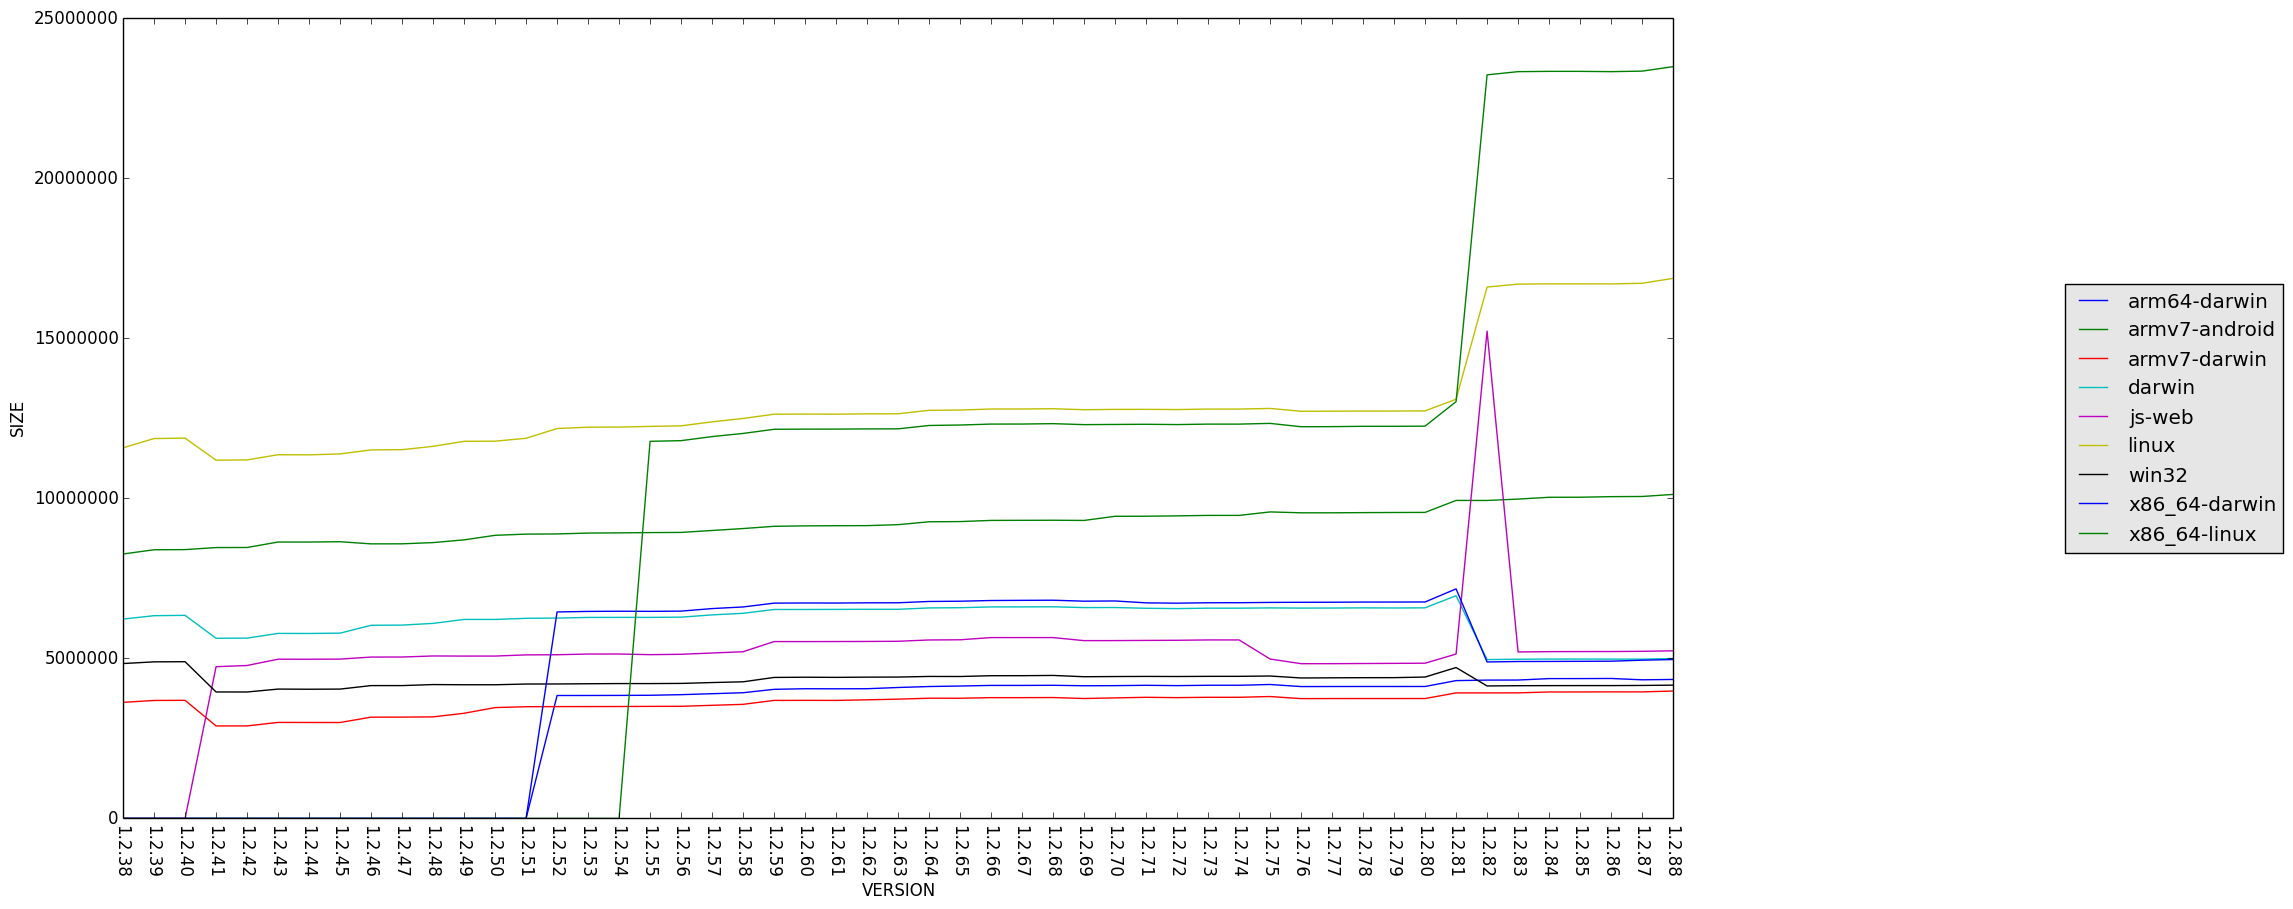
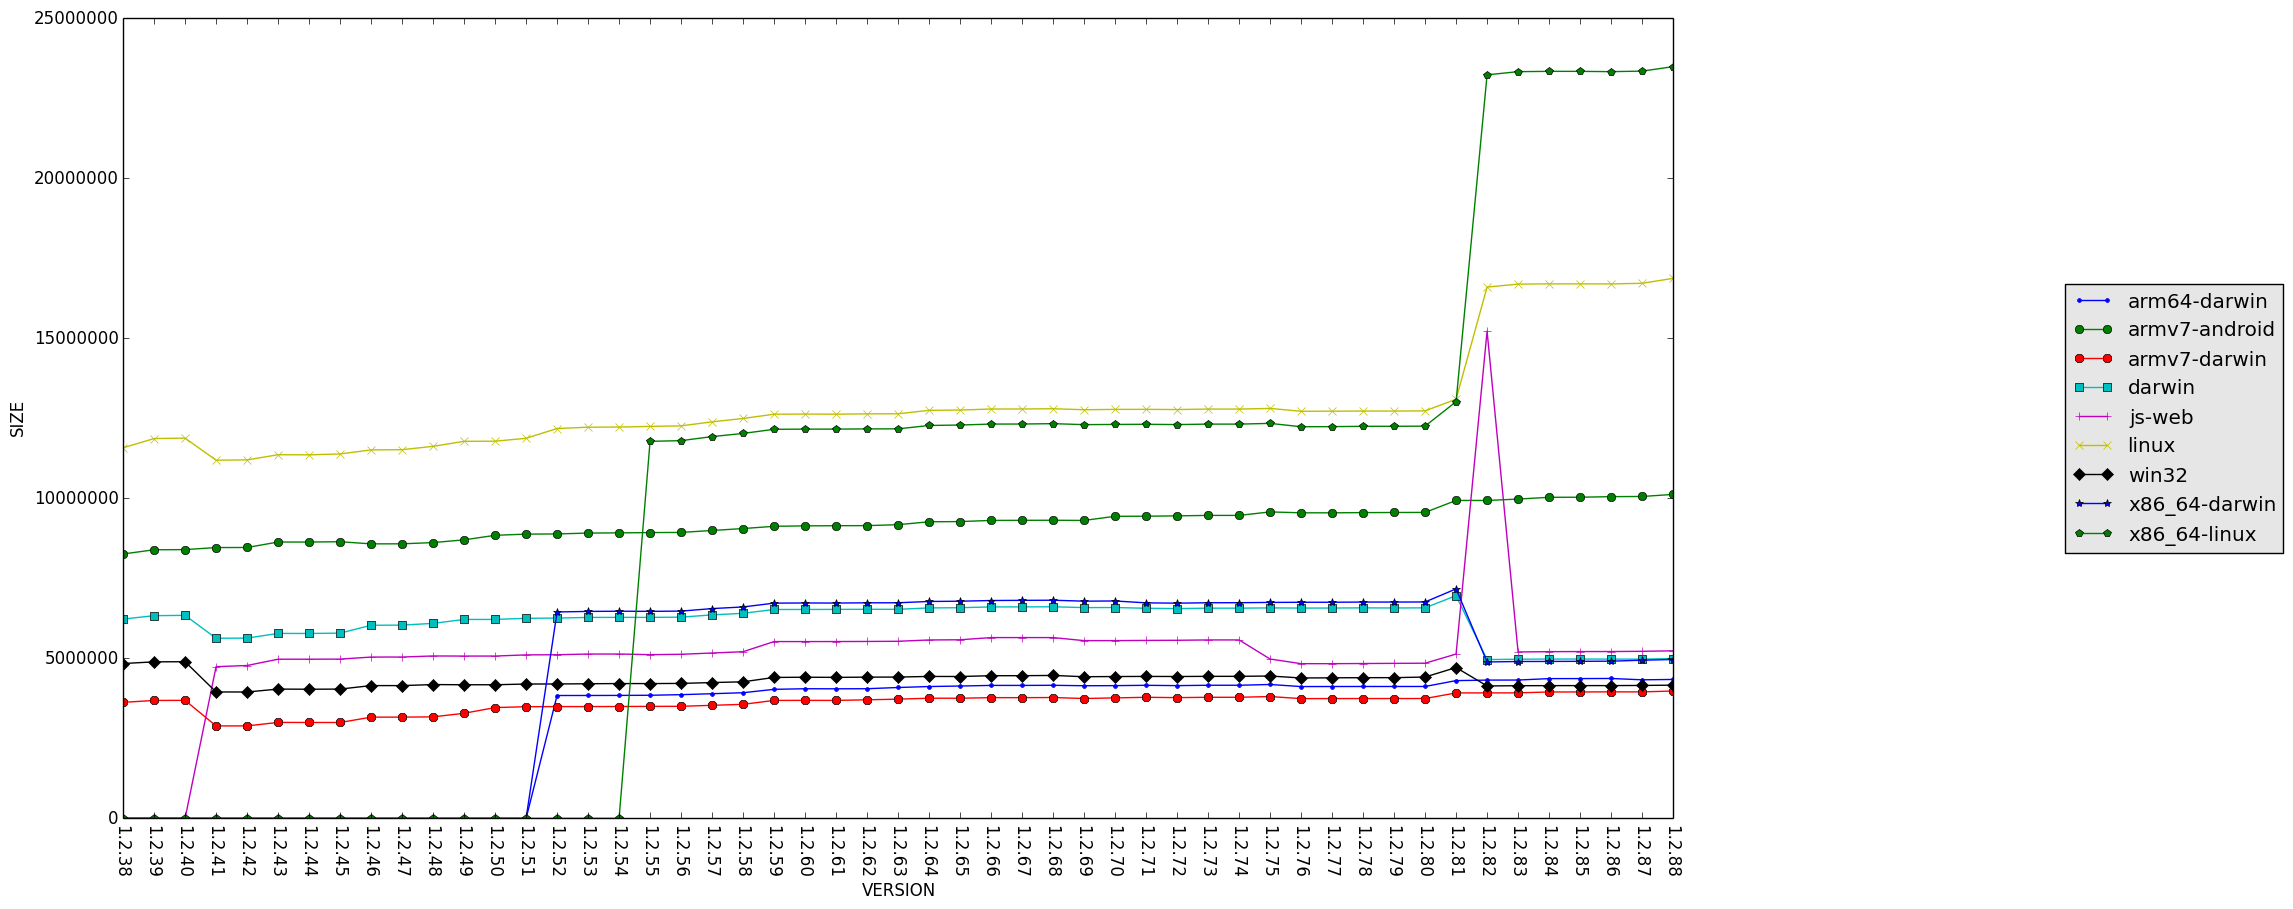
Add line markers for readability

diff --git a/check_size.py b/check_size.py
@@ -2,6 +2,7 @@
 import urllib
 import os
 from csv import reader
+import itertools
 import matplotlib
 matplotlib.use('Agg')
 
@@ -106,9 +107,9 @@ def create_graph():
 
 		fig, ax = pyplot.subplots(figsize=(20, 10))
 		pyplot.xticks(xaxis_version, versions, rotation=270)
-		for engine in range(1,len(data[0])):
+		for engine, marker in zip(range(1,len(data[0])), itertools.cycle('.o8s+xD*p')):
 			yaxis_size = [i[engine] for i in data[1::]]
-			ax.plot(xaxis_version, yaxis_size, label=data[0][engine])
+			ax.plot(xaxis_version, yaxis_size, label=data[0][engine], marker=marker)
 
 		locs,labels = pyplot.yticks()
 		pyplot.yticks(locs, map(lambda x: "%d" % x, locs))
